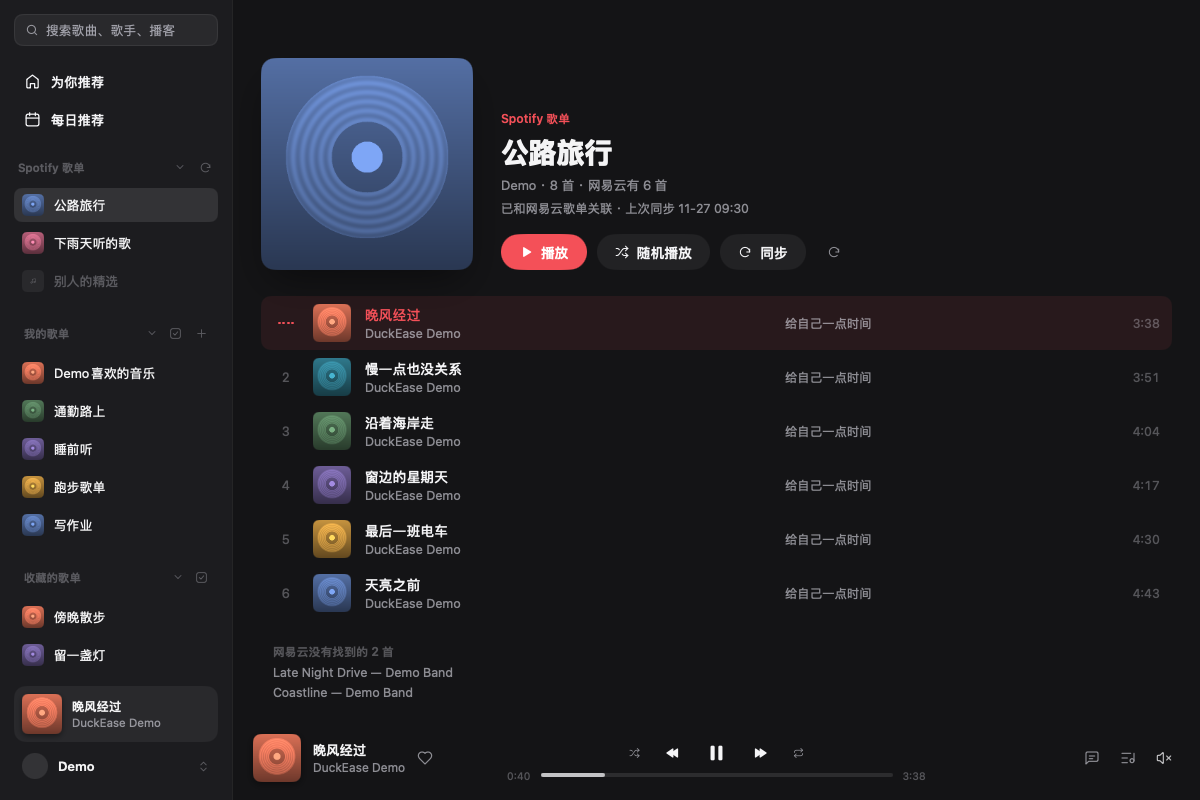
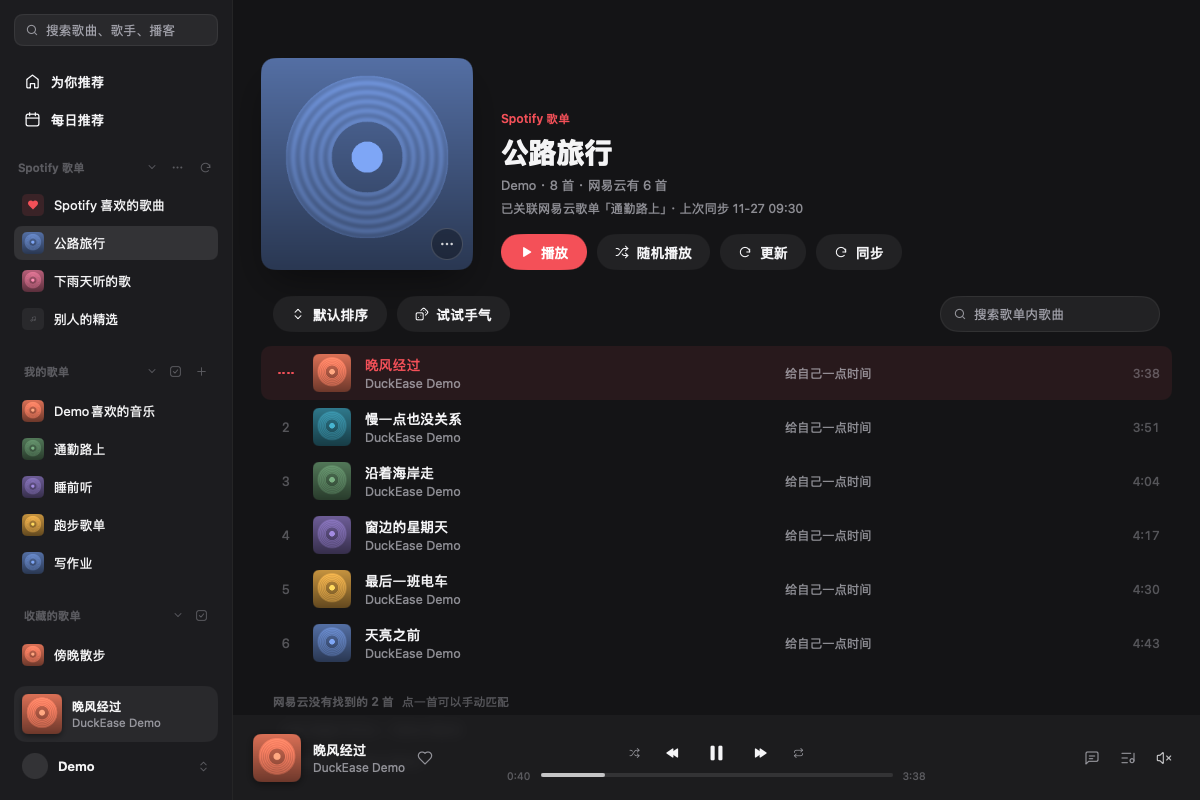
README: a section of its own on syncing with Spotify, with new screenshots
The manual match dialog, linking a NetEase playlist and the connection guide
are rendered from the real views like the other screenshots.

diff --git a/internal/app/press_test.go b/internal/app/press_test.go
@@ -31,7 +31,7 @@ func TestPressScreenshots(t *testing.T) {
 	}
 	fallbackUsage = func(time.Time) (int, int, time.Duration) { return 12, 40, 3*time.Minute + 12*time.Second }
 	defer func() { fallbackUsage = netease.FallbackUsage }()
-	for _, scene := range []string{"home", "now-playing", "stage", "queue", "playlist", "settings", "picking", "manager", "cover-picker", "sidebar", "backup", "wall", "stage-partita", "stage-tilt", "fog", "daily", "agents", "spotify", "spotify-matching"} {
+	for _, scene := range []string{"home", "now-playing", "stage", "queue", "playlist", "settings", "picking", "manager", "cover-picker", "sidebar", "backup", "wall", "stage-partita", "stage-tilt", "fog", "daily", "agents", "spotify", "spotify-matching", "spotify-match", "spotify-link", "spotify-connect"} {
 		for _, dark := range []bool{false, true} {
 			a := pressApp()
 			view, w, h := a.view, 1200, 800
@@ -87,6 +87,23 @@ func TestPressScreenshots(t *testing.T) {
 			case "spotify":
 				pressSpotify(a)
 				a.route = route{page: pageSpotify, query: "sp-road"}
+			case "spotify-match":
+				pressSpotify(a)
+				a.route = route{page: pageSpotify, query: "sp-road"}
+				t := a.spot.pages["sp-road"].missing[0]
+				a.spot.matching = spotMatchDialog{open: true, page: "sp-road", track: t, query: "Late Night Drive Demo Band", searched: true,
+					results: []netease.Track{a.daily[6], a.daily[7]}}
+				a.spot.matching.results[0].Name, a.spot.matching.results[0].Alias = "Late Night Drive", []string{"深夜开车"}
+				a.spot.matching.results[1].Name, a.spot.matching.results[1].Alias = "Late Night Drive", []string{"Live"}
+			case "spotify-link":
+				pressSpotify(a)
+				a.route = route{page: pageSpotify, query: "sp-rain"}
+				a.spot.pages["sp-rain"] = &spotPage{tracks: make([]spotify.Track, 6), matched: a.daily[2:8], from: make([]string, 6)}
+				a.openSpotImport("sp-rain", "下雨天听的歌", true)
+				a.spot.importing.target, a.spot.importing.both = "睡前听", true
+			case "spotify-connect":
+				view, w, h = a.settingsView, 560, 2400
+				a.spot.checked, a.spot.clientID = true, ""
 			case "spotify-matching":
 				pressSpotify(a)
 				a.route = route{page: pageSpotify, query: "sp-rain"}
@@ -98,6 +115,14 @@ func TestPressScreenshots(t *testing.T) {
 			tt.Frame()
 			img := tt.Image()
 			// The settings' groups the newest switches are in.
+			if scene == "spotify-connect" {
+				f, ok := tt.Find("连接 Spotify")
+				e, ok2 := tt.Find("要知道的几件事")
+				if !ok || !ok2 {
+					t.Fatal("no Spotify group")
+				}
+				img = img.SubImage(image.Rect(0, int(f.Y-52), w, int(e.Y+150))).(*image.RGBA)
+			}
 			if from, to := map[string]string{"settings": "播放", "backup": "备份"}[scene], map[string]string{"settings": "缓存", "backup": "更新"}[scene]; from != "" {
 				f, ok := tt.Find(from)
 				e, ok2 := tt.Find(to)
@@ -187,12 +212,13 @@ func pressSpotify(a *app) {
 		{ID: "sp-followed", Name: "别人的精选", Owner: spotify.User{ID: "someone"}},
 	}
 	songs := a.daily[:6]
-	missing := []spotify.Track{{Name: "Late Night Drive"}, {Name: "Coastline"}}
+	missing := []spotify.Track{{ID: "m1", URI: "spotify:track:m1", Name: "Late Night Drive", Duration: 214000}, {ID: "m2", URI: "spotify:track:m2", Name: "Coastline", Duration: 198000}}
 	missing[0].Artists = append(missing[0].Artists, struct {
 		Name string `json:"name"`
 	}{"Demo Band"})
 	missing[1].Artists = missing[0].Artists
-	a.spot.pages = map[string]*spotPage{"sp-road": {tracks: make([]spotify.Track, 8), matched: songs, missing: missing}}
+	a.spot.liked = 326
+	a.spot.pages = map[string]*spotPage{"sp-road": {tracks: make([]spotify.Track, 8), matched: songs, from: make([]string, len(songs)), missing: missing}}
 	a.spot.links = []crossplay.Link{{Spotify: "sp-road", Netease: 201, Name: "公路旅行", Direction: crossplay.Both,
 		Synced: time.Date(2026, 11, 27, 9, 30, 0, 0, time.Local)}}
 }

diff --git a/README.md b/README.md
@@ -30,7 +30,7 @@
   <tr>
     <td width="33%" valign="top"><img src="assets/icons/music.svg" width="22" height="22"> <b>原生，占得少</b><br>MyGo 直接绘制界面，不套 WebView。在我的 Mac 上占 191 MB 内存。</td>
     <td width="33%" valign="top"><img src="assets/icons/lyrics.svg" width="22" height="22"> <b>让 AI agent 理歌单</b><br>应用本身就是 MCP 服务器。Codex、Claude Code 这类 agent 能读歌单、批量找歌、去重、建歌单。</td>
-    <td width="33%" valign="top"><img src="assets/icons/duck.svg" width="22" height="22"> <b>Spotify 歌单拿来听</b><br>Spotify 歌单显示在侧边栏，歌从网易云找来播放；两边歌单能互相复制、同步。</td>
+    <td width="33%" valign="top"><img src="assets/icons/duck.svg" width="22" height="22"> <b>和 Spotify 同步</b><br>Spotify 歌单显示在侧边栏，歌从网易云找来播放；两边歌单能互相复制、关联、同步，在这里也能编辑。<a href="#和-spotify-同步">看怎么用</a></td>
   </tr>
 </table>
 
@@ -49,7 +49,7 @@
 | 看 | `playlists` 列出歌单，`playlist` 读歌单里的歌（可按关键词筛），`search` 搜歌 |
 | 找 | `match` 一次给最多 100 行「歌名 - 歌手」，每行返回最像的网易云歌曲和相似度；`duplicates` 找重复的歌 |
 | 改 | `create_playlist`、`add_songs`、`remove_songs`、`rename_playlist`、`delete_playlist`、`like_songs` |
-| Spotify | 读 Spotify 歌单和喜欢的歌曲、搜歌、加歌删歌、两边互相复制、同步关联的歌单、改正配错的歌，见下一节 |
+| Spotify | 读 Spotify 歌单和喜欢的歌曲、搜歌、加歌删歌、两边互相复制、同步关联的歌单、改正配错的歌，见[和 Spotify 同步](#和-spotify-同步) |
 
 只有自己建的歌单能改；收藏的别人的歌单只读，「我喜欢的音乐」不能改名也不能删。
 
@@ -59,22 +59,57 @@
 
 第一次调用时，钥匙串可能会问能不能让 DuckEase Music 读取登录信息，点「始终允许」。ad hoc 签名每次构建都会变，换新版本后可能再问一次。手动配置、完整工具列表和单次调用的上限见 [docs/MCP.md](docs/MCP.md)。
 
-## Spotify 和网易云互通
+## 和 Spotify 同步
 
-连上 Spotify 后，侧边栏多一组「Spotify 歌单」，最上面是「Spotify 喜欢的歌曲」，显示哪些歌单可以自己挑。点开一个，里面的歌会在网易云上找到对应的那首，直接在 DuckEase Music 里放。Spotify 歌单在这里也能新建、改名、删除、加歌删歌。**Spotify 的音频不在这里播放**：Spotify 的接口不提供音频，能放的只有网易云（和打开了的备用音源）里有的歌，找不到的列在歌单页最底下。
+DuckEase Music 把 Spotify 和网易云接了起来：Spotify 歌单出现在侧边栏，歌从网易云找来放；两边的歌单能互相复制、关联、同步，Spotify 歌单在这里也能直接编辑。
+
+> **Spotify 的音频不在这里播放。** Spotify 的接口不提供音频，能放的只有网易云（和打开了的备用音源）里有的歌，找不到的列在歌单页最底下。本项目与 Spotify 没有隶属或合作关系。
 
 <table>
   <tr>
-    <td width="50%" valign="top"><b>Spotify 歌单页</b><br>匹配到的歌直接放，没找到的列在最底下；和网易云歌单关联后，这里能同步。<br><br><picture><source media="(prefers-color-scheme: dark)" srcset="assets/screenshots/spotify-dark.png"><img alt="Spotify 歌单「公路旅行」，8 首里网易云有 6 首，已和网易云歌单关联，底部列出没找到的 2 首" src="assets/screenshots/spotify-light.png"></picture></td>
-    <td width="50%" valign="top"><b>边游边匹配</b><br>小鸭游到哪，就匹配到哪。离开页面也接着找，侧边栏显示百分比。<br><br><picture><source media="(prefers-color-scheme: dark)" srcset="assets/screenshots/spotify-matching-dark.png"><img alt="匹配进度：小鸭在水线上游到三分之一处，下面写着正在网易云匹配歌曲 412 / 1302，侧边栏歌单旁显示 31%" src="assets/screenshots/spotify-matching-light.png"></picture></td>
+    <td width="50%" valign="top"><b>Spotify 歌单页</b><br>匹配到的歌直接放，没找到的列在最底下。已关联的歌单标出对应的网易云歌单和上次同步时间。<br><br><picture><source media="(prefers-color-scheme: dark)" srcset="assets/screenshots/spotify-dark.png"><img alt="Spotify 歌单「公路旅行」，8 首里网易云有 6 首，已关联网易云歌单「通勤路上」，侧边栏最上面是 Spotify 喜欢的歌曲" src="assets/screenshots/spotify-light.png"></picture></td>
+    <td width="50%" valign="top"><b>手动匹配</b><br>没找到的歌点一下，弹出网易云搜索，点中哪首就记成哪首，以后同步也按它来。<br><br><picture><source media="(prefers-color-scheme: dark)" srcset="assets/screenshots/spotify-match-dark.png"><img alt="手动匹配弹窗：搜索框里是 Late Night Drive Demo Band，下面两条网易云结果，一条带「深夜开车」别名，一条是 Live" src="assets/screenshots/spotify-match-light.png"></picture></td>
+  </tr>
+  <tr>
+    <td width="50%" valign="top"><b>关联已有歌单</b><br>Spotify 歌单可以复制成新的网易云歌单，也可以直接接到你已有的歌单上，勾上双向同步，两边互补。<br><br><picture><source media="(prefers-color-scheme: dark)" srcset="assets/screenshots/spotify-link-dark.png"><img alt="把「下雨天听的歌」带到网易云的对话框，选了关联已有歌单「睡前听」，勾着双向同步" src="assets/screenshots/spotify-link-light.png"></picture></td>
+    <td width="50%" valign="top"><b>一步步连上</b><br>设置里按顺序写好了每一步，地址一键复制，Client ID 位数不对会提示。<br><br><picture><source media="(prefers-color-scheme: dark)" srcset="assets/screenshots/spotify-connect-dark.png"><img alt="设置里的 Spotify 连接指引，五个编号步骤和一个粘贴 Client ID 的输入框" src="assets/screenshots/spotify-connect-light.png"></picture></td>
   </tr>
 </table>
 
-**连接**要用你自己的 Spotify 开发者 app：在 Spotify 的 Developer Dashboard 建一个，Redirect URI 填 `http://127.0.0.1:43821/callback`，把 Client ID 粘到「设置 → Spotify」，点「连接」。设置里有一步一步的指引。走 PKCE，不需要 Client Secret，令牌存在钥匙串里。按 Spotify 2026 年起的规定，app 的所有者要有 **Premium**，接口也只开放**自己创建或参与协作的歌单**；收藏的别人的歌单和官方歌单改从公开页面读，只能读到前 100 首。步骤和限制详见 [docs/SPOTIFY.md](docs/SPOTIFY.md)。
+### 连上 Spotify
 
-**匹配**按歌名、歌手和时长打分，会认网易云的歌手别名，歌名相同但歌手对不上的要时长也一样才算，免得把翻唱当原曲。打开歌单页不会自动去搜，直接显示上次读到的内容；点「更新」才重新读 Spotify、搜还没找过的歌，离开页面也会在后台接着找，侧边栏歌单名旁边显示百分比。找过的结果会记下来，以后只搜新加的歌。配错了，可以让 agent 用 `fix_match` 改过来。
+Spotify 不给第三方软件统一的接口，每个人要建一个自己的开发者 app，拿到它的 Client ID。免费，大约 3 分钟：
 
-**复制和同步**：Spotify 歌单页能「复制到网易云」，可以自己起名字（网易云不收某些名字时改一下就行），也可以直接关联一个已有的网易云歌单。自己的网易云歌单在「⋯」菜单里能「复制到 Spotify」，复制过的两个歌单会关联起来。之后的同步可以单向，也可以双向，但**只加不删**：一边删掉的歌，另一边不跟着删；你上次同步后删掉的歌，下次也不会被加回来。
+1. 用你的 Spotify 账号登录 [Developer Dashboard](https://developer.spotify.com/dashboard)，点 Create app。
+2. 名字和描述随便填。Redirect URI 填 `http://127.0.0.1:43821/callback`，一个字都不能差。API 勾 Web API。
+3. 打开刚建的 app 的 Settings，复制 Client ID，粘到「设置 → Spotify」，点「连接」，在浏览器里点 Agree。
+
+走 PKCE，不需要 Client Secret，令牌存在钥匙串里。按 Spotify 2026 年起的规定，**建 app 的账号要有 Premium**；只给自己用不用管名单，给别人用要在 app 的 User Management 里加上他们的邮箱，最多 5 人。0.1.25-duckease.8 之前连过的，在设置里点一次「重新连接」，授权读写“喜欢的歌曲”。
+
+### 能做什么
+
+| | |
+|---|---|
+| **看** | 侧边栏列出你的 Spotify 歌单，最上面是「Spotify 喜欢的歌曲」；显示哪些歌单可以自己挑。收藏的别人的歌单和官方歌单从公开页面读，只能读到前 100 首，私密的读不了 |
+| **听** | 每首歌按歌名、歌手、时长在网易云上找对应的那首，认网易云的歌手别名；歌名一样但歌手对不上的，时长也一样才算，免得把翻唱当原曲 |
+| **改** | 新建、改名、改简介、删除 Spotify 歌单；任何一首歌右键「添加到 Spotify 歌单」，歌单页里右键移除。往“喜欢的歌曲”里加就是点赞 |
+| **配** | 没找到的歌点一下手动匹配；配错的右键「匹配错了，手动改…」。不想配的就留在底下 |
+| **搬** | Spotify 歌单「复制到网易云」，名字可以改（网易云不收某些名字，被拒时改一下就行）；或者「关联已有歌单」，包括「我喜欢的音乐」。网易云歌单在「⋯」菜单里也能「复制到 Spotify」 |
+| **同步** | 关联过的两个歌单可以单向或双向同步 |
+| **红心** | 「设置 → 播放 → 点红心时同时添加到」选一个网易云或 Spotify 歌单，点红心时歌同时进去。排序菜单里的「只看不在红心歌单的」能挑出还没点红心的歌 |
+
+### 同步怎么算
+
+- **只加不删。** 一边删掉的歌，另一边不会跟着删，匹配错了也不会误删东西。
+- **不加回你删掉的。** 每次同步记下两边当时有哪些歌，上次同步之后你从某一边删掉的，下次不会从另一边加回来。
+- **找完再加。** 先把所有歌都找完，再按原来的顺序一次加进去；中途停下就一首都不加，下次接着找。
+- **不来回加。** 双向同步时，同一首歌两边版本不同（比如 Spotify 上是重制版），不会各加一遍。
+
+### 不会每次都重新搜
+
+打开歌单页直接显示上次读到的内容，不联网，重启后也在。点「更新」才会重新读 Spotify、在网易云搜还没找过的歌：每首搜一次，间隔 0.8 秒，免得触发网易云风控；离开页面也会在后台接着找，侧边栏歌单名旁边显示百分比。找过的结果记在 `crossplay.json`，没找到的 7 天后才会再试。Spotify 那边歌单有变化时，标题下面会提示。
+
+AI agent 也能做这些：MCP 里有 `spotify_playlists`、`spotify_search`、`spotify_add_songs`、`sync_playlist`、`fix_match` 等工具，歌单 id 写 `liked` 就是 Spotify 喜欢的歌曲。完整说明、限制和代码位置见 [docs/SPOTIFY.md](docs/SPOTIFY.md)。
 
 ## 看看界面
 

diff --git a/README.en.md b/README.en.md
@@ -30,7 +30,7 @@ The original app and most of its code are the work of **egoist and the upstream 
   <tr>
     <td width="33%" valign="top"><img src="assets/icons/music.svg" width="22" height="22"> <b>Native and small</b><br>MyGo draws the interface directly, with no WebView. 191 MB of memory on my Mac.</td>
     <td width="33%" valign="top"><img src="assets/icons/lyrics.svg" width="22" height="22"> <b>Playlists by AI agent</b><br>The app is its own MCP server. Agents such as Codex and Claude Code can read playlists, match songs in bulk, dedupe, and build new ones.</td>
-    <td width="33%" valign="top"><img src="assets/icons/duck.svg" width="22" height="22"> <b>Spotify playlists, played here</b><br>Your Spotify playlists sit in the sidebar and play from NetEase matches; copy and sync playlists either way.</td>
+    <td width="33%" valign="top"><img src="assets/icons/duck.svg" width="22" height="22"> <b>Syncing with Spotify</b><br>Your Spotify playlists sit in the sidebar and play from NetEase matches; copy, link and sync playlists either way, and edit them here. <a href="#syncing-with-spotify">How</a></td>
   </tr>
 </table>
 
@@ -49,7 +49,7 @@ Then just ask, say, "remove the duplicates from these playlists" or "make a play
 | Reading | `playlists` lists your playlists, `playlist` reads one (with an optional keyword filter), `search` searches songs |
 | Finding | `match` takes up to 100 "title - artist" lines and returns the closest NetEase song and a score for each; `duplicates` finds repeated songs |
 | Changing | `create_playlist`, `add_songs`, `remove_songs`, `rename_playlist`, `delete_playlist`, `like_songs` |
-| Spotify | read Spotify playlists, copy either way, sync linked playlists, correct a wrong match (next section) |
+| Spotify | read Spotify playlists and Liked Songs, search, add and remove songs, copy either way, sync linked playlists, correct a wrong match ([Syncing with Spotify](#syncing-with-spotify)) |
 
 Only playlists you created can be changed. Saved playlists by others are read-only, and your liked songs can't be renamed or deleted.
 
@@ -59,22 +59,40 @@ Only playlists you created can be changed. Saved playlists by others are read-on
 
 On the first call, the Keychain may ask whether DuckEase Music can read its login; choose Always Allow. Ad hoc signatures change with every build, so a new version may ask again. Manual setup, the full tool list, and per-call limits are in [docs/MCP.md](docs/MCP.md) (Chinese).
 
-## Spotify and NetEase, both ways
+## Syncing with Spotify
 
-Once Spotify is connected, the sidebar gets a Spotify 歌单 group. Open a playlist and each song is looked up on NetEase and played in DuckEase Music. **Spotify audio is not played here**: Spotify's API provides no audio, so only songs that NetEase (or the fallback source, if on) has will play. Songs without a match are listed at the bottom of the page.
+DuckEase Music connects Spotify and NetEase: your Spotify playlists sit in the sidebar and play from NetEase matches, playlists can be copied, linked and synced either way, and Spotify playlists can be edited right here.
+
+> **Spotify audio is not played here.** Spotify's API provides no audio, so only songs that NetEase (or the fallback source, if on) has will play; songs without a match are listed at the bottom of the page. This project has no affiliation with Spotify.
 
 <table>
   <tr>
-    <td width="50%" valign="top"><b>A Spotify playlist</b><br>Matched songs play right away; the ones NetEase lacks are listed at the bottom. Once linked to a NetEase playlist, it syncs from here.<br><br><picture><source media="(prefers-color-scheme: dark)" srcset="assets/screenshots/spotify-dark.png"><img alt="The Spotify playlist 公路旅行: NetEase has 6 of its 8 songs, it is linked to a NetEase playlist, and the 2 songs not found are listed at the bottom" src="assets/screenshots/spotify-light.png"></picture></td>
-    <td width="50%" valign="top"><b>Matching, with a duck</b><br>The duck swims as far as the matching has got. Leave the page and it keeps going, with a percentage in the sidebar.<br><br><picture><source media="(prefers-color-scheme: dark)" srcset="assets/screenshots/spotify-matching-dark.png"><img alt="Matching progress: the duck a third of the way along a waterline, above 正在网易云匹配歌曲 412 / 1302, with 31% beside the playlist in the sidebar" src="assets/screenshots/spotify-matching-light.png"></picture></td>
+    <td width="50%" valign="top"><b>A Spotify playlist</b><br>Matched songs play right away; the ones NetEase lacks are listed at the bottom. A linked playlist names its NetEase partner and the last sync.<br><br><picture><source media="(prefers-color-scheme: dark)" srcset="assets/screenshots/spotify-dark.png"><img alt="The Spotify playlist 公路旅行: NetEase has 6 of its 8 songs, it is linked to the NetEase playlist 通勤路上, and Spotify Liked Songs tops the sidebar" src="assets/screenshots/spotify-light.png"></picture></td>
+    <td width="50%" valign="top"><b>Match by hand</b><br>Click a song that wasn't found and search NetEase for it; the one you pick is kept as its match, for syncs too.<br><br><picture><source media="(prefers-color-scheme: dark)" srcset="assets/screenshots/spotify-match-dark.png"><img alt="The manual match dialog: a search for Late Night Drive Demo Band with two NetEase results, one with the alias 深夜开车 and one Live" src="assets/screenshots/spotify-match-light.png"></picture></td>
+  </tr>
+  <tr>
+    <td width="50%" valign="top"><b>Link a playlist you have</b><br>Copy a Spotify playlist into a new NetEase one, or attach it to one you already have, both ways if you like.<br><br><picture><source media="(prefers-color-scheme: dark)" srcset="assets/screenshots/spotify-link-dark.png"><img alt="The dialog bringing 下雨天听的歌 to NetEase, linking the existing playlist 睡前听 with two-way sync ticked" src="assets/screenshots/spotify-link-light.png"></picture></td>
+    <td width="50%" valign="top"><b>Connect step by step</b><br>The settings walk through each step, copy the redirect URI for you, and warn when a Client ID has the wrong length.<br><br><picture><source media="(prefers-color-scheme: dark)" srcset="assets/screenshots/spotify-connect-dark.png"><img alt="The Spotify connection guide in the settings: five numbered steps and a field for the Client ID" src="assets/screenshots/spotify-connect-light.png"></picture></td>
   </tr>
 </table>
 
-**Connecting** takes a Spotify developer app of your own: create one in Spotify's Developer Dashboard with the redirect URI `http://127.0.0.1:43821/callback`, paste its Client ID under Settings → Spotify, and click 连接 (Connect). Login uses PKCE, needs no client secret, and keeps its tokens in the Keychain. Under Spotify's rules since 2026, the app's owner needs **Premium**, and only playlists **you created or collaborate on** can be read; followed and editorial playlists appear greyed out. Steps and limits are in [docs/SPOTIFY.md](docs/SPOTIFY.md) (Chinese).
+**Connecting** takes a Spotify developer app of your own, free and about three minutes: create one in the [Developer Dashboard](https://developer.spotify.com/dashboard) with the redirect URI `http://127.0.0.1:43821/callback` and Web API ticked, paste its Client ID under Settings → Spotify, and click 连接 (Connect). Login uses PKCE, needs no client secret, and keeps its tokens in the Keychain. Under Spotify's rules since 2026, **the app's owner needs Premium**, and up to five other users can be added in its User Management. If you connected before 0.1.25-duckease.8, click 重新连接 (Reconnect) once to allow Liked Songs.
 
-**Matching** scores title, artist, and duration, and knows NetEase's artist aliases. A same-titled song by a different artist counts only if the duration matches too, so covers aren't taken for the original. The first time you open a long playlist, songs are searched one by one while a duck swims across the page; leave the page and matching carries on in the background, with a percentage beside the playlist in the sidebar. Matches are remembered, so later only new songs are searched. If a match is wrong, an agent can fix it with `fix_match`.
+| | |
+|---|---|
+| **See** | Your Spotify playlists in the sidebar, Spotify Liked Songs on top; choose which show. Playlists of others are read off their public page, first 100 songs only; private ones can't be read |
+| **Play** | Each song is found on NetEase by title, artist and duration, NetEase's artist aliases included; a same-titled song by another artist counts only if the duration matches too, so covers aren't taken for originals |
+| **Edit** | Create, rename, describe and delete Spotify playlists; add any song from its menu, remove from the playlist page. Adding to Liked Songs likes a song |
+| **Match** | Click a song not found to match it by hand; fix a wrong match from its menu. Songs left alone stay at the bottom |
+| **Move** | Copy a Spotify playlist to NetEase under a name you choose (NetEase refuses some; just change it), or link one you have, 我喜欢的音乐 included. NetEase playlists copy to Spotify from their ⋯ menu |
+| **Sync** | Linked playlists sync one way or both |
+| **Heart** | Settings → 播放 → 点红心时同时添加到 adds a hearted song to a NetEase or Spotify playlist of your choice. The sort menu can list only the songs not yet hearted |
 
-**Copy and sync**: a Spotify playlist page offers 复制到网易云 (copy to NetEase), and your own NetEase playlists have 复制到 Spotify in their ⋯ menu. The two playlists are then linked. Syncing can go one way or both, and it **only adds**: songs removed on one side are not removed on the other, and songs you removed since the last sync are not added back.
+**How syncing counts**: it **only adds**, so a song removed on one side isn't removed on the other; songs you removed since the last sync aren't added back; it finds every song before adding any, in order, so a sync cut short adds nothing; and two versions of one song (a remaster on Spotify, say) aren't each added to the other side.
+
+**No searching on every open**: a playlist page shows what it read last time, offline and across restarts. 更新 (Update) reads Spotify again and looks on NetEase for songs not found yet, one search every 0.8 seconds to stay clear of NetEase's risk control; it keeps going when you leave the page, with a percentage in the sidebar. Matches are kept in `crossplay.json`; songs not found are tried again after 7 days.
+
+AI agents can do all this too, through MCP tools such as `spotify_playlists`, `spotify_search`, `spotify_add_songs`, `sync_playlist` and `fix_match`; the playlist id `liked` is Spotify Liked Songs. Details, limits and code are in [docs/SPOTIFY.md](docs/SPOTIFY.md) (Chinese).
 
 ## A look inside
 

diff --git a/docs/SCREENSHOTS.md b/docs/SCREENSHOTS.md
@@ -8,7 +8,7 @@ The screenshots are rendered by the application's actual native Go views through
 NM_PRESS_SHOTS="$PWD/assets/screenshots" CGO_ENABLED=0   go test ./internal/app -run '^TestPressScreenshots$' -count=1
 ```
 
-`internal/app/press_test.go` renders home, Now Playing (with a song from the fallback source, and with the fog backdrop), the lyric stage in its three styles, the cover wall, the queue, the daily recommendations, a playlist sorted by name, songs picked on a playlist, the playlist manager, the cover picker, the sidebar editor, the Connect AI Agent dialog, a Spotify playlist matched on NetEase and one being matched (the duck) in light and dark appearances at 1200 × 800, plus the Playback and Backup groups of the settings window at 560 points wide. The fallback quota and the last backup time shown are fixed demo values. Home greetings and date labels use the tester's current clock; screenshot pixels are deliberately not asserted.
+`internal/app/press_test.go` renders home, Now Playing (with a song from the fallback source, and with the fog backdrop), the lyric stage in its three styles, the cover wall, the queue, the daily recommendations, a playlist sorted by name, songs picked on a playlist, the playlist manager, the cover picker, the sidebar editor, the Connect AI Agent dialog, a Spotify playlist matched on NetEase, one being matched (the duck), the manual match dialog, the dialog linking a NetEase playlist, and (cropped from the settings at 560 points wide) the Spotify connection guide in light and dark appearances at 1200 × 800, plus the Playback and Backup groups of the settings window at 560 points wide. The fallback quota and the last backup time shown are fixed demo values. Home greetings and date labels use the tester's current clock; screenshot pixels are deliberately not asserted.
 
 The original demo lyrics are written for this repository and are not transcribed from a recording. Abstract artwork is drawn by `pressCover`. No music is played or downloaded. Inspect new images before committing them.
 
